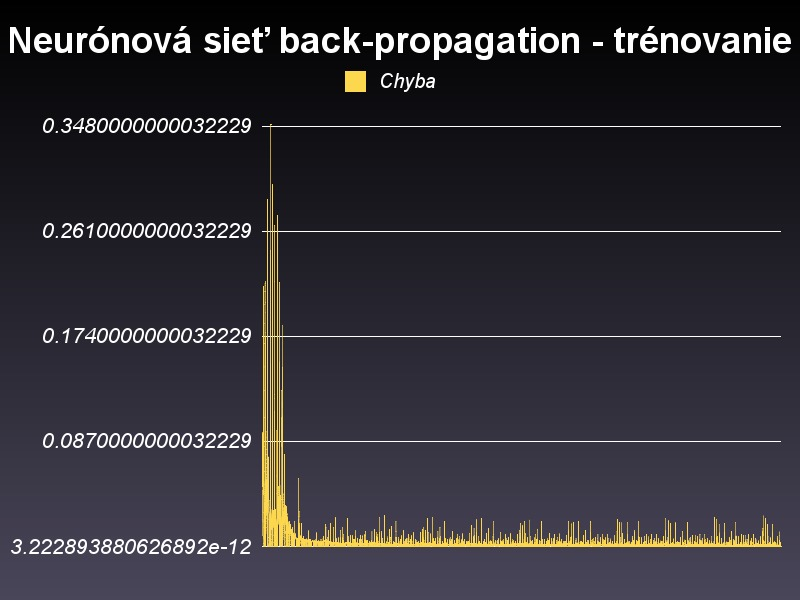
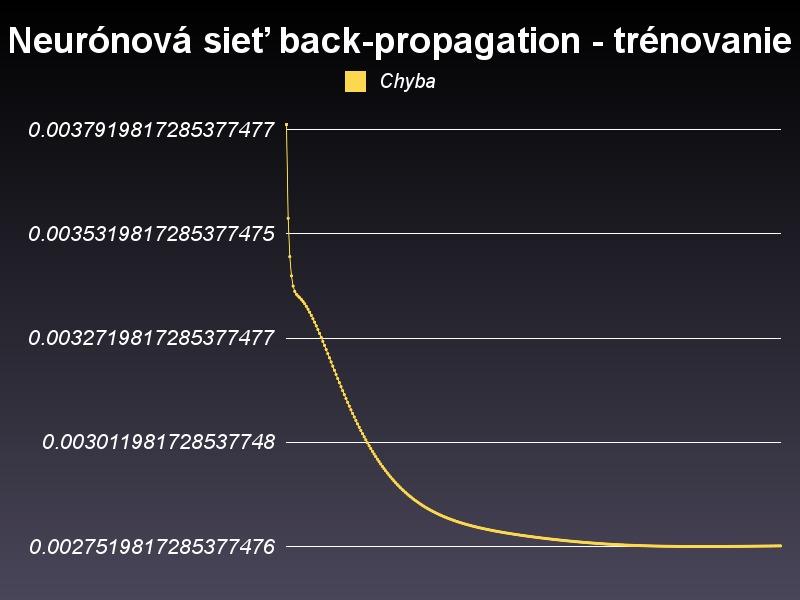
predikcia

Changed region(s): [[0.0, 0.3, 0.9688, 0.93], [0.0312, 0.18, 0.9688, 0.24], [0.5, 0.81, 0.5312, 0.84]]

diff --git a/app/assets/stylesheets/predikcia.css b/app/assets/stylesheets/predikcia.css
@@ -84,8 +84,10 @@ p.menu {
 }
 
 img {
-	width: 400px;
-	max-width: 400px;
+	width: 800px;
+	max-width: 800px;
+	height: 400px;
+	max-height: 400px;
 	margin: 0 auto;
 }
 

diff --git a/app/controllers/home_controller.rb b/app/controllers/home_controller.rb
@@ -303,14 +303,15 @@ before_filter :authenticate_admin!
   	if params[:datum]		
   		@start = RealValue.find(params[:datum])
   		@trenovanie1 = RealValue.where(:cas=>@start.cas-20.days..@start.cas)#.
-#  								where("osvit > 0.5")
+#  								where("vykon >= 0")
   		# normalizacia
   		@trenovanie_osvit = []
   		@trenovanie_teplota = []
   		@trenovanie_out = []
   		@trenovanie1.each_with_index do |sada|
-  			@trenovanie_out << (sada.vykon-RealValue.minimum("vykon"))/
-  						(RealValue.maximum("vykon")-RealValue.minimum("vykon"))
+  		# ako 0 je urceny minimalny vykon
+  			@trenovanie_out << (sada.vykon-0)/
+  						(RealValue.maximum("vykon")-0)#RealValue.minimum("vykon"))
   			@trenovanie_osvit << (sada.osvit-RealValue.minimum("osvit"))/
   						(RealValue.maximum("osvit")-RealValue.minimum("osvit"))
   			@trenovanie_teplota << (sada.teplota-RealValue.minimum("teplota"))/
@@ -327,15 +328,15 @@ before_filter :authenticate_admin!
   		vahy2=[]
   		vahyout=[]
   		@pocet_neuronov.times do
-  			vahy1 << (rand*2-1)
-  			vahy2 << rand*2-1
-  			vahyout << rand*2-1	
+  			vahy1 << rand-0.5
+  			vahy2 << rand-0.5
+  			vahyout << rand-0.5	
   		end
   		@vahy_v = Matrix[vahy1,vahy2]
   		@vahy_w = Matrix.column_vector(vahyout)
   		i=0
-  		@mi=0.6
-  		@alfa=0.1
+  		@mi=0.8
+  		@alfa=0.8
   		@delta_w0 = Matrix.build(@vahy_w.row_size,@vahy_w.column_size) { 0 }
   		@delta_v0 = Matrix.build(@vahy_v.row_size,@vahy_v.column_size) { 0 }
   		
@@ -344,7 +345,9 @@ before_filter :authenticate_admin!
   		@error_learning = []
   		time = Time.now
   		cyklov = 0
-  		while (@error>0.00000001 && @error< 10) || (cyklov<20000) 
+  		@global_error = 0
+  		# cyklus ucenia sa opakuje kym neprebehne 200 cyklov alebo chyba nie je dostatocne nizka
+  		until (cyklov>=300)
   			@vstup = Matrix.column_vector(@trenovanie.row(i))
   			@vystup = Matrix.column_vector(@trenovanie_out.row(i))
   		 		
@@ -370,7 +373,7 @@ before_filter :authenticate_admin!
   			# 7
   			@error = (@vystup-@vystup_final).sum**2
   			#if @error < 0.00000001
-  			 cyklov = cyklov +1
+  			 
   			 #else 
   			 #cyklov = 0
   			 #end
@@ -398,14 +401,53 @@ before_filter :authenticate_admin!
   			@vahy_w = @vahy_w + @delta_w1
   			@delta_w0 = @delta_w1
   			@delta_v0 = @delta_v1
-  			@error_learning << @error
+  			
   			
   			i=(i+1).modulo(@trenovanie.row_size)
+  			if i==0
+  			
+  				@trenovanie.row_size.times do |r|
+  					@vstup = Matrix.column_vector(@trenovanie.row(r))
+  					@vystup = Matrix.column_vector(@trenovanie_out.row(r))
+  		 			
+  					#vypocita vstupy do skrytych neuronov - 
+  					# transpose = transponovana matica
+  					# krok 5
+  					@vstup_hidden = @vahy_v.transpose*@vstup
+  					# krok 6
+  					@vystup_hidden = Matrix.build(@vstup_hidden.row_size,1) { 0 }
+  					pole=[]
+  					@vstup_hidden.column(0).each_with_index do |riadok, row, col|
+  						pole[row] = 1/(1+Math.exp(-1*riadok))
+  					end  # @vstup_hidden....
+  					@vystup_hidden=Matrix.column_vector(pole)
+  					# krok 7
+  					@vstup_final = @vahy_w.transpose*@vystup_hidden
+  					pole = []
+  					@vstup_final.column(0).each_with_index do |riadok, row, col|
+  						pole[row] = 1/(1+Math.exp(-1*riadok))
+  					end #@vstup_final.column(0)
+  					# 
+  					@vystup_final = Matrix[pole]
+  					# 7
+  					@error = (@vystup-@vystup_final).sum**2
+  					@global_error += @error
+  				end # @trenovanie.each....
+  				
+  				@global_error = @global_error/(@trenovanie.row_size)
+  				@error_learning << @global_error
+  				cyklov = cyklov +1
+  			end
+  			# trenovanie konci ak je siet dostatocne naucena
+  			if (i==0)&&(@global_error<=0.001)
+  				break
+  			end # if i==0 && ...
+  			
   		end #while error
   		
   		@dlzka = Time.now - time
   		
-  	@g_neuro = Gruff::Line.new
+  	@g_neuro = Gruff::Line.new(800)
 	@g_neuro.title = "Neurónová sieť back-propagation - trénovanie" 
 	@g_neuro.data("Chyba", @error_learning)
 	@g_neuro.write('public/assets/neuro_learning.jpg')
@@ -414,10 +456,14 @@ before_filter :authenticate_admin!
   	@real = []
   	RealValue.where(:cas=>@start.cas..(@start.cas+3.days)).each do |hodnota|
   		@predikcia << predikuj(hodnota, @vahy_v, @vahy_w)
-  		@real << hodnota.vykon
+  		if hodnota.vykon >=0
+  			@real << hodnota.vykon
+  		else
+  			@real << 0
+  		end
   	end #each.do |hodnota|  	
   		
-  	@g_predik = Gruff::Line.new
+  	@g_predik = Gruff::Line.new(800)
 	@g_predik.title = "Neurónová sieť back-propagation - predikcia" 
 	@g_predik.data("Predikcia", @predikcia)
 	@g_predik.data("Reálne hodnoty", @real)
@@ -452,8 +498,8 @@ before_filter :authenticate_admin!
   	vstup_final.column(0).each_with_index do |riadok, row, col|
   		pole[row] = 1/(1+Math.exp(-1*riadok))
   	end
-  	# 
-  	vysledok = Matrix[pole].sum*(RealValue.maximum("vykon")-RealValue.minimum("vykon"))+RealValue.minimum("vykon")
+  	# 0 je nastaveny minimalny vykon
+  	vysledok = Matrix[pole].sum*(RealValue.maximum("vykon")-0)+0
   	
   	return vysledok
   end
